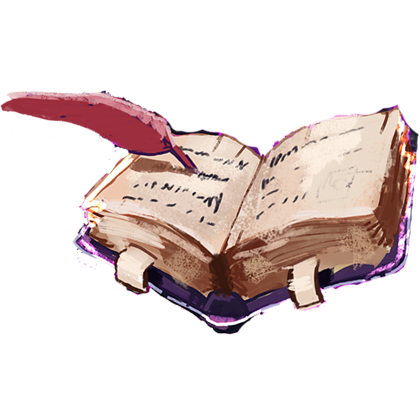
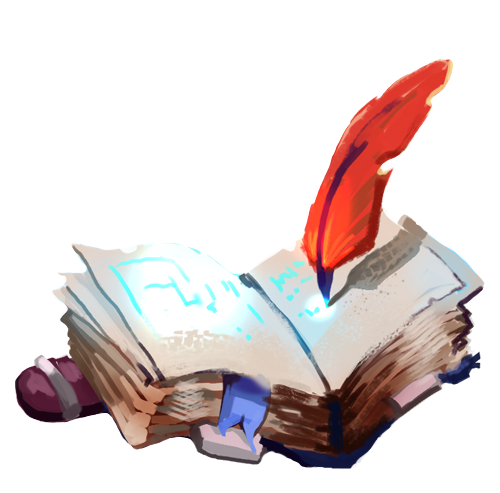
add spell book as quest

diff --git a/src/main.js b/src/main.js
@@ -92,6 +92,7 @@ io.on('connection', function (socket) {
             users: [id, socket.id],
             items: itemIds,
             openCranks: 0,
+            openSpells: 0,
             questions: {}
         };
 
@@ -109,18 +110,26 @@ io.on('connection', function (socket) {
         if (matches[matchId].ready == 2) {
             matches[matchId].ready = 0;
             do {
-                if(Math.random() <= 0.25) {
-                    matches[matchId].questions[0] = question.collection.getById(50);
+                var random = Math.random();
+                if(random <= 0.15) { // Spell Crank
+                    matches[matchId].questions[0] = question.collection.getById(25);
                     matches[matchId].openCranks++;
-                } else {
+                } else if(random <= 0.30) { // Spell Book
+                    matches[matchId].questions[0] = question.collection.getById(50);
+                    matches[matchId].openSpells++;
+                } else { // Item
                     matches[matchId].questions[0] = question.collection.getByItem(matches[matchId].items[Math.floor(Math.random() * matches[matchId].items.length - 1)]);
                 }
             } while (typeof matches[matchId].questions[0] === 'undefined');
             do {
-                if(Math.random() <= 0.25) {
-                    matches[matchId].questions[1] = question.collection.getById(50);
+                var random = Math.random();
+                if(random <= 0.15) { // Spell Crank
+                    matches[matchId].questions[1] = question.collection.getById(25);
                     matches[matchId].openCranks++;
-                } else {
+                } else if(random <= 0.30) { // Spell Book
+                    matches[matchId].questions[1] = question.collection.getById(50);
+                    matches[matchId].openSpells++;
+                } else { // Item
                     matches[matchId].questions[1] = question.collection.getByItem(matches[matchId].items[Math.floor(Math.random() * matches[matchId].items.length - 1)]);
                 }
             } while (typeof matches[matchId].questions[1] === 'undefined');
@@ -135,21 +144,23 @@ io.on('connection', function (socket) {
                 if(matches[matchId].openCranks > 0) {
                     matches[matchId].success = false;
                 }
+                if(matches[matchId].openSpells > 0) {
+                    matches[matchId].success = false;
+                }
 
                 if(!(matches[matchId].questions[0].success) && matches[matchId].questions[0].itemId != null){
                     matches[matchId].success = false;
                 }
-
                 if(!(matches[matchId].questions[1].success) && matches[matchId].questions[1].itemId != null){
                     matches[matchId].success = false;
                 }
 
                 io.to(matchId).emit('endRound', matches[matchId].success);
-
                 console.log(helpers.prefix() + colors.debug('round ended [%s] in match %s'), matches[matchId].success, matchId);
                 matches[matchId].success = true;
                 matches[matchId].responded = 0;
                 matches[matchId].openCranks = 0;
+                matches[matchId].openSpells = 0;
             }, 5500);
         }
     });
@@ -174,6 +185,12 @@ io.on('connection', function (socket) {
         matches[data.match].responded++;
         console.log(helpers.prefix() + colors.debug('user %s from match %s has used the spell crank'), socket.id, data.match);
         matches[data.match].openCranks--;
+    });
+
+    socket.on('spellBookUsed', function (data) {
+        matches[data.match].responded++;
+        console.log(helpers.prefix() + colors.debug('user %s from match %s has used the spell book'), socket.id, data.match);
+        matches[data.match].openSpells--;
     });
 
     socket.on('matchEnded', function (matchId) {
@@ -264,4 +281,5 @@ question.collection.add(11, 'Add a knocked out Vampire Tooth', 11);
 question.collection.add(12, 'Add a fresh cutted Gremmlin Head', 12);
 question.collection.add(13, 'Add an odd Sukkubus-Ass', 13);
 
-question.collection.add(50, 'Use the Spell Crank', null);
+question.collection.add(25, 'Use the Spell Crank', null);
+question.collection.add(50, 'Use the Spell Book', null);

diff --git a/src/client/screens/game.js b/src/client/screens/game.js
@@ -38,6 +38,10 @@ var IggjGameScreen = function (stageHandler, eventHandler, networkHandler, gameD
             _socket.emit('spellCrankUsed', {match: gameData.match});
         });
 
+        eventHandler('spellBookUsed').subscribe(function () {
+            _socket.emit('spellBookUsed', {match: gameData.match});
+        });
+
         eventHandler('gameOver').subscribe(function () {
             console.log('gamescreen receiver game over');
             _gameFinished = true;
@@ -129,7 +133,7 @@ var IggjGameScreen = function (stageHandler, eventHandler, networkHandler, gameD
         $.each(itemData, function (key, value) {
             _itemHolder.addItem(new IggjItem(value.id, value.img, value.name));
         });
-        _wizardHolder = new IggjWizardsHolder();
+        _wizardHolder = new IggjWizardsHolder(eventHandler);
         _spellCrank = new IggjSpellCrank(eventHandler);
         _taskBar = new IggjTaskBar();
         _timer = new IggjTimer();

diff --git a/src/client/parts/wizardsHolder.js b/src/client/parts/wizardsHolder.js
@@ -1,4 +1,4 @@
-var IggjWizardsHolder = function () {
+var IggjWizardsHolder = function (eventHandler) {
 
     var _$mainContainer = null;
     var _$spellBook = null;
@@ -18,6 +18,13 @@ var IggjWizardsHolder = function () {
         _$mainContainer = $('<div id="spellbook-container"></div>');
         _$spellBook = $('<div id="spell-book"></div>');
         _$mainContainer.append(_$spellBook);
+        _$spellBook.on('click', function () {
+            eventHandler('spellBookUsed').publish();
+            _$spellBook.addClass('active');
+            setTimeout(function () {
+                _$spellBook.removeClass('active');
+            }, 500);
+        });
     };
 
     this.$getWizardsHolder = function () {

diff --git a/src/less/game.less b/src/less/game.less
@@ -34,10 +34,16 @@
 #spell-book {
   width : 100%;
   height: 80%;
+  -webkit-transition: background-image 0.2s;
+  transition: background-image 0.2s;
   background-image: url(../img/buch.png);
   background-size: contain;
   background-position: bottom center;
   background-repeat: no-repeat;
+
+  &.active {
+    background-image: url(../img/buch_active.png);
+  }
 }
 
 #spellbook-container {
